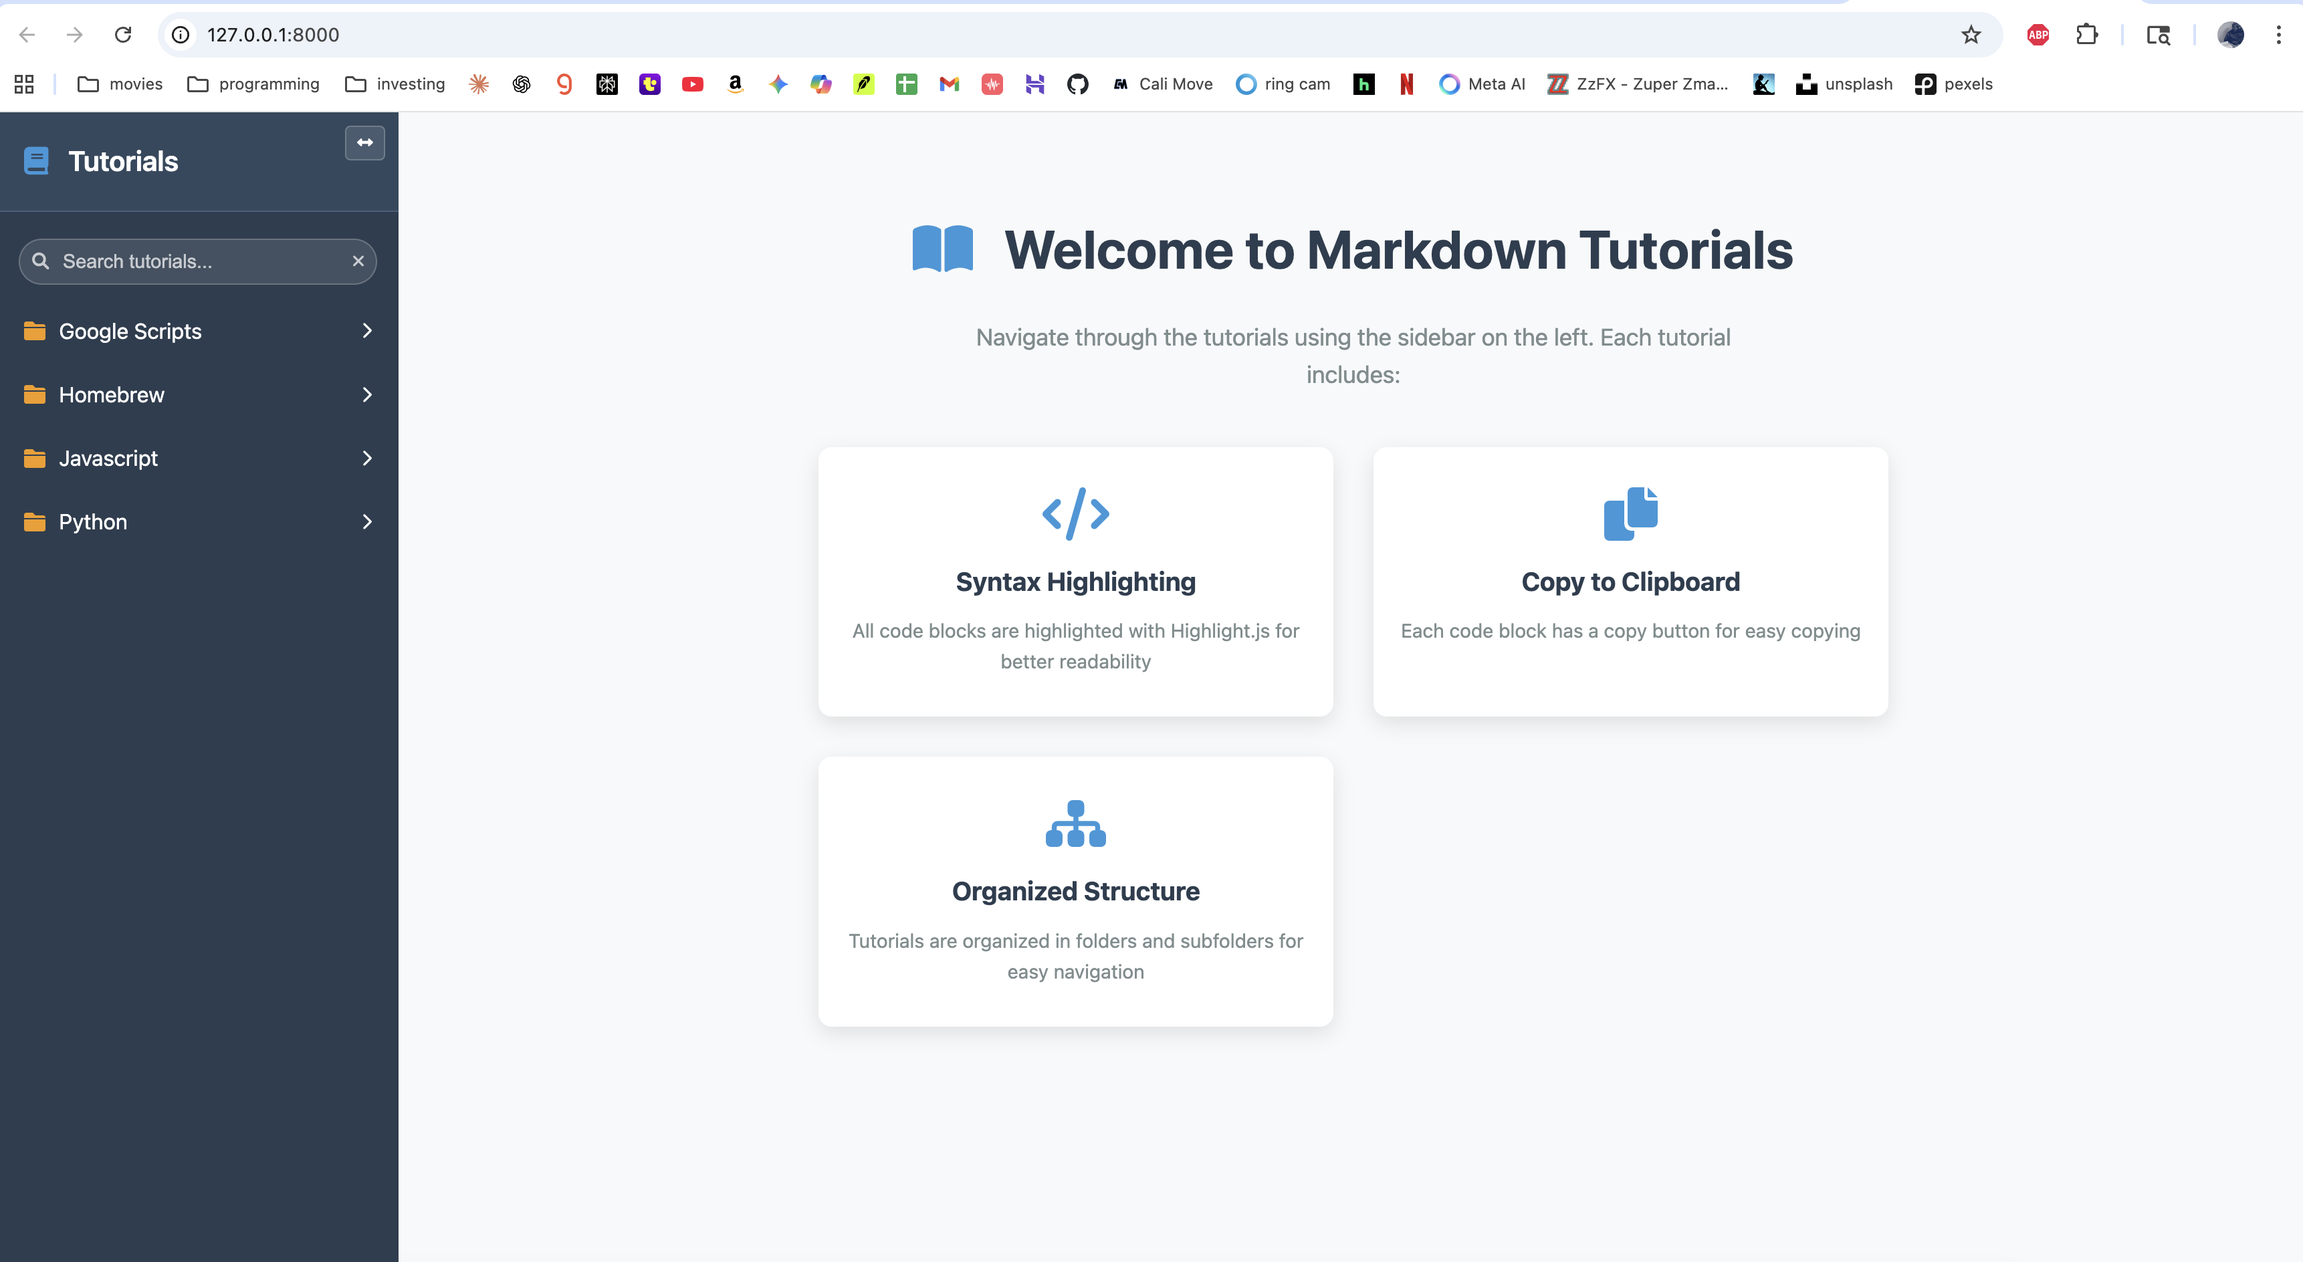
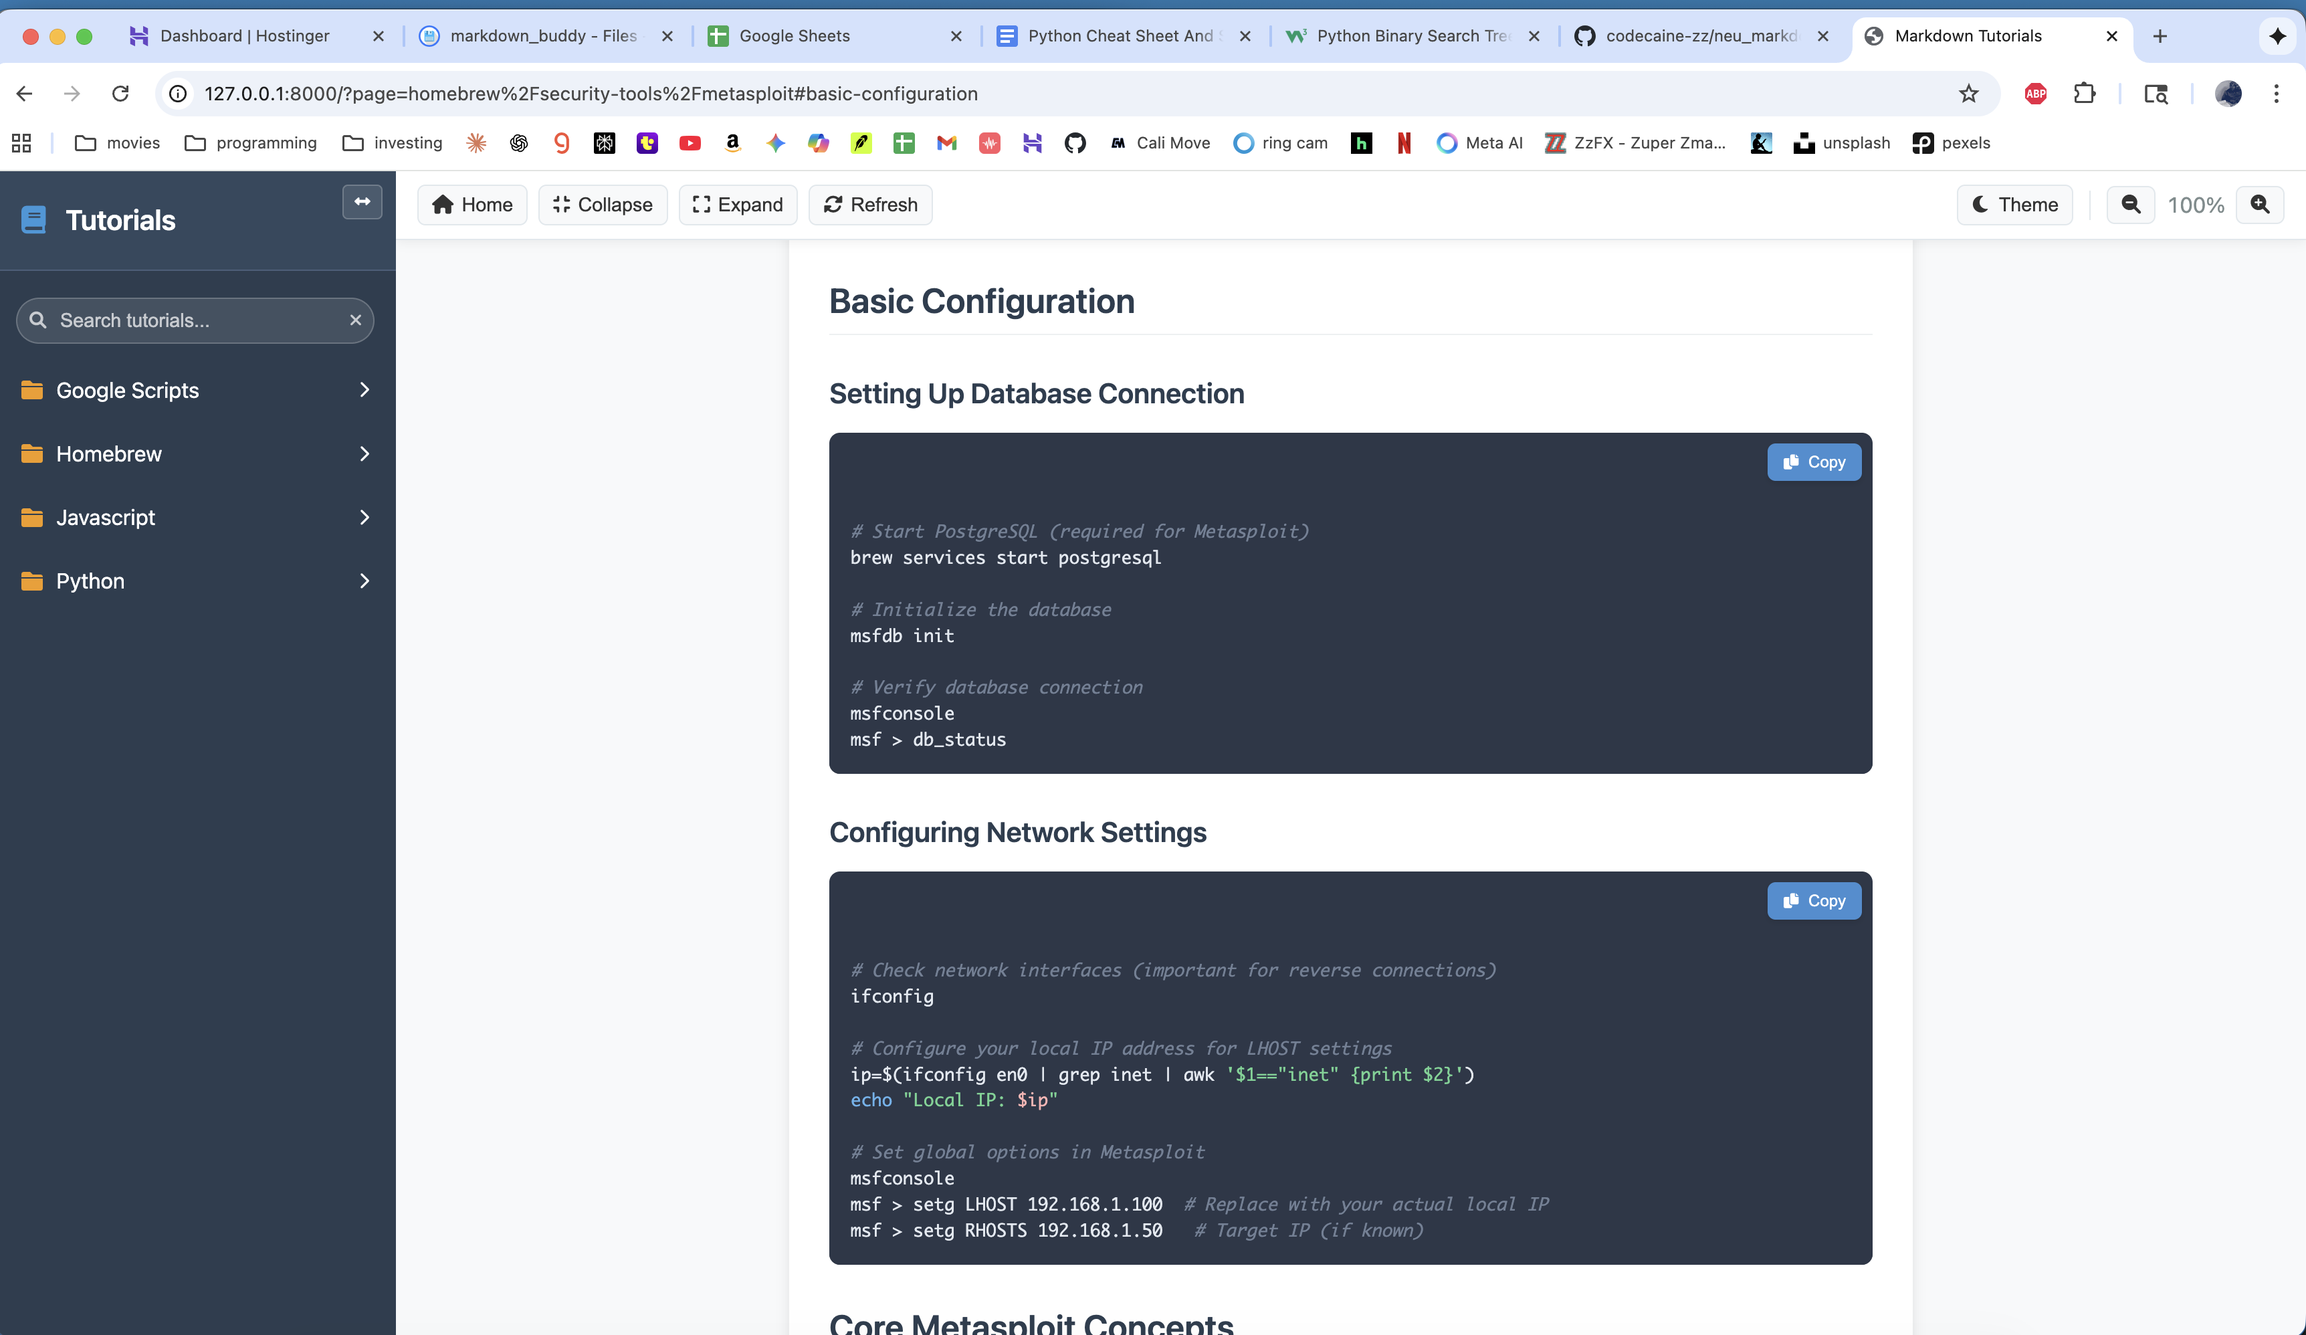
updated user interface and screenshoots

diff --git a/assets/js/app.js b/assets/js/app.js
@@ -495,12 +495,15 @@ document.addEventListener('DOMContentLoaded', function() {
                 sidebar.classList.remove('expanded');
                 sidebar.classList.add('collapsed');
                 sidebarToggle.querySelector('i').className = 'fas fa-arrows-alt-h';
+                saveUiState();
             } else if (sidebar.classList.contains('collapsed')) {
                 sidebar.classList.remove('collapsed');
                 sidebarToggle.querySelector('i').className = 'fas fa-arrows-alt-h';
+                saveUiState();
             } else {
                 sidebar.classList.add('expanded');
                 sidebarToggle.querySelector('i').className = 'fas fa-compress-alt';
+                saveUiState();
             }
         });
     }
@@ -563,4 +566,183 @@ document.addEventListener('DOMContentLoaded', function() {
         const isHidden = toc.style.display === 'none' || toc.style.display === '';
         toc.style.display = isHidden ? 'block' : 'none';
     }
+
+    // ===== Toolbar wiring =====
+    const busy = {
+        el: document.getElementById('busyOverlay'),
+        show() { this.el && this.el.classList.add('show'); },
+        hide() { this.el && this.el.classList.remove('show'); }
+    };
+
+    const TB = {
+        home: document.getElementById('tbHome'),
+        collapseAll: document.getElementById('tbCollapseAll'),
+        expandAll: document.getElementById('tbExpandAll'),
+        refresh: document.getElementById('tbRefresh'),
+        theme: document.getElementById('tbTheme'),
+        zoomOut: document.getElementById('tbZoomOut'),
+        zoomIn: document.getElementById('tbZoomIn'),
+        zoomIndicator: document.getElementById('tbZoomIndicator')
+    };
+
+    TB.home && TB.home.addEventListener('click', () => { window.location.href = '?page=home'; });
+
+    TB.collapseAll && TB.collapseAll.addEventListener('click', () => {
+        busy.show();
+        setTimeout(() => {
+            document.querySelectorAll('.nav-folder-content.open').forEach(f => { f.classList.remove('open'); f.style.maxHeight = '0px'; });
+            document.querySelectorAll('.nav-folder-header .folder-arrow.open').forEach(a => a.classList.remove('open'));
+            saveFolderStates();
+            busy.hide();
+        }, 150);
+    });
+
+    TB.expandAll && TB.expandAll.addEventListener('click', () => {
+        busy.show();
+        setTimeout(() => {
+            document.querySelectorAll('.nav-folder-content').forEach(f => { f.classList.add('open'); f.style.maxHeight = 'none'; });
+            document.querySelectorAll('.nav-folder-header .folder-arrow').forEach(a => a.classList.add('open'));
+            saveFolderStates();
+            busy.hide();
+        }, 150);
+    });
+
+    TB.refresh && TB.refresh.addEventListener('click', () => {
+        busy.show();
+        setTimeout(() => {
+            // Rebuild TOC and re-apply search filters; nav is server-rendered, so just reset states
+            initializeFolderStates();
+            initFolderToggles();
+            expandCurrentPath();
+            buildTableOfContents();
+            busy.hide();
+        }, 120);
+    });
+
+    // Theme toggle with persistence
+    const THEME_KEY = 'mt_theme';
+    function applyTheme(theme) {
+        const root = document.documentElement;
+        if (theme === 'dark') {
+            root.classList.add('theme-dark');
+            root.classList.remove('force-light');
+            TB.theme && (TB.theme.querySelector('i').className = 'fas fa-sun');
+        } else {
+            root.classList.remove('theme-dark');
+            root.classList.add('force-light');
+            TB.theme && (TB.theme.querySelector('i').className = 'fas fa-moon');
+        }
+        localStorage.setItem(THEME_KEY, theme);
+    }
+    function loadTheme() {
+        const saved = localStorage.getItem(THEME_KEY);
+        if (saved) applyTheme(saved);
+    }
+    TB.theme && TB.theme.addEventListener('click', () => {
+        const isDark = document.documentElement.classList.contains('theme-dark');
+        applyTheme(isDark ? 'light' : 'dark');
+    });
+    loadTheme();
+
+    // Zoom controls with persistence
+    const ZOOM_KEY = 'mt_zoom';
+    const zoomContainer = document.getElementById('contentZoom');
+    let zoom = 1.0;
+    function applyZoom() {
+        if (!zoomContainer) return;
+        zoomContainer.style.transform = `scale(${zoom})`;
+        TB.zoomIndicator && (TB.zoomIndicator.textContent = `${Math.round(zoom*100)}%`);
+        localStorage.setItem(ZOOM_KEY, String(zoom));
+    }
+    function loadZoom() {
+        const v = parseFloat(localStorage.getItem(ZOOM_KEY) || '1');
+        if (!Number.isNaN(v)) {
+            zoom = Math.min(1.8, Math.max(0.8, v));
+            applyZoom();
+        }
+    }
+    TB.zoomIn && TB.zoomIn.addEventListener('click', () => { zoom = Math.min(1.8, zoom + 0.1); applyZoom(); });
+    TB.zoomOut && TB.zoomOut.addEventListener('click', () => { zoom = Math.max(0.8, zoom - 0.1); applyZoom(); });
+    loadZoom();
+
+    // Persist sidebar and folder states
+    const UI_KEY = 'mt_ui_state';
+    function saveFolderStates() {
+        const states = [];
+        document.querySelectorAll('.nav-folder').forEach((folder, idx) => {
+            const content = folder.querySelector(':scope > .nav-folder-content');
+            if (content) states.push({ idx, open: content.classList.contains('open') });
+        });
+        const data = loadUiState();
+        data.folders = states;
+        localStorage.setItem(UI_KEY, JSON.stringify(data));
+    }
+    function restoreFolderStates() {
+        try {
+            const data = loadUiState();
+            if (!data.folders) return;
+            const folders = Array.from(document.querySelectorAll('.nav-folder'));
+            data.folders.forEach(s => {
+                const f = folders[s.idx];
+                if (!f) return;
+                const content = f.querySelector(':scope > .nav-folder-content');
+                const header = f.querySelector(':scope > .nav-folder-header .folder-arrow');
+                if (content) {
+                    if (s.open) {
+                        content.classList.add('open');
+                        content.style.maxHeight = 'none';
+                        header && header.classList.add('open');
+                    } else {
+                        content.classList.remove('open');
+                        content.style.maxHeight = '0px';
+                        header && header.classList.remove('open');
+                    }
+                }
+            });
+        } catch {}
+    }
+    function saveUiState() {
+        const sidebar = document.getElementById('sidebar');
+        const data = loadUiState();
+        data.sidebar = {
+            expanded: sidebar.classList.contains('expanded'),
+            collapsed: sidebar.classList.contains('collapsed')
+        };
+        localStorage.setItem(UI_KEY, JSON.stringify(data));
+        return data;
+    }
+    function loadUiState() {
+        try { return JSON.parse(localStorage.getItem(UI_KEY) || '{}'); } catch { return {}; }
+    }
+    function restoreUiState() {
+        const data = loadUiState();
+        const sidebar = document.getElementById('sidebar');
+        if (data.sidebar) {
+            sidebar.classList.toggle('expanded', !!data.sidebar.expanded);
+            sidebar.classList.toggle('collapsed', !!data.sidebar.collapsed);
+        }
+        restoreFolderStates();
+    }
+    restoreUiState();
+
+    // Keyboard shortcuts
+    document.addEventListener('keydown', (e) => {
+        const cmd = e.metaKey || e.ctrlKey;
+        if (e.key === 'F1') { e.preventDefault(); alert('Shortcuts:\n• Cmd/Ctrl+F: focus search\n• Cmd/Ctrl+B: toggle sidebar width\n• Cmd/Ctrl+H: home\n• +/-: zoom'); }
+        if (cmd && (e.key === 'f' || e.key === 'F')) {
+            e.preventDefault();
+            const inp = document.getElementById('navigationSearch');
+            inp && inp.focus();
+        }
+        if (cmd && (e.key === 'b' || e.key === 'B')) {
+            e.preventDefault();
+            sidebarToggle && sidebarToggle.click();
+        }
+        if (cmd && (e.key === 'h' || e.key === 'H')) {
+            e.preventDefault();
+            TB.home && TB.home.click();
+        }
+        if ((e.key === '+' || e.key === '=')) { e.preventDefault(); TB.zoomIn && TB.zoomIn.click(); }
+        if ((e.key === '-') ) { e.preventDefault(); TB.zoomOut && TB.zoomOut.click(); }
+    });
 });

diff --git a/assets/css/style.css b/assets/css/style.css
@@ -535,6 +535,57 @@ body {
     color: #95a5a6;
 }
 
+/* ===== Toolbar & Zoom (added) ===== */
+.toolbar {
+    position: sticky;
+    top: 0;
+    z-index: 50;
+    display: flex;
+    align-items: center;
+    justify-content: space-between;
+    gap: 10px;
+    padding: 10px 16px;
+    background: #ffffff;
+    border-bottom: 1px solid #e1e8ed;
+    box-shadow: 0 2px 8px rgba(0,0,0,0.06);
+}
+.toolbar-left, .toolbar-right { display: flex; align-items: center; gap: 8px; }
+.tb-btn {
+    display: inline-flex; align-items: center; gap: 6px;
+    background: #f8f9fa; color: #333;
+    border: 1px solid #e1e8ed;
+    padding: 6px 10px; border-radius: 6px; cursor: pointer; font-size: 0.9rem;
+    transition: background 0.2s, color 0.2s, border-color 0.2s, transform 0.05s;
+}
+.tb-btn:hover { background: #e9ecef; border-color: #3498db; color: #3498db; }
+.tb-btn:active { transform: translateY(1px); }
+.tb-btn i { color: inherit; }
+.tb-sep { width: 1px; height: 22px; background: #e1e8ed; margin: 0 4px; }
+.tb-indicator { min-width: 44px; text-align: center; color: #7f8c8d; font-variant-numeric: tabular-nums; }
+.zoom-container { transform-origin: top left; }
+
+/* Busy overlay */
+.busy-overlay { position: fixed; inset: 0; background: rgba(0,0,0,0.15); display: none; align-items: center; justify-content: center; z-index: 9999; }
+.busy-overlay.show { display: flex; }
+.busy-overlay .spinner { background: #ffffff; border: 1px solid #e1e8ed; padding: 10px 14px; border-radius: 8px; box-shadow: 0 2px 8px rgba(0,0,0,0.1); color: #3498db; }
+
+/* ===== Dark theme overrides (added) ===== */
+.theme-dark, .theme-dark body { background: #0f172a; color: #e2e8f0; }
+.theme-dark .toolbar { background: #0b1220; border-color: #1f2937; box-shadow: 0 2px 8px rgba(0,0,0,0.5); }
+.theme-dark .tb-btn { background: #0f172a; color: #e2e8f0; border-color: #1f2937; }
+.theme-dark .tb-btn:hover { background: #111827; color: #60a5fa; border-color: #374151; }
+.theme-dark .tb-indicator { color: #94a3b8; }
+.theme-dark .markdown-content, .theme-dark .breadcrumb, .theme-dark .feature, .theme-dark .folder-listing { background: #0b1220; box-shadow: 0 2px 8px rgba(0,0,0,0.5); }
+.theme-dark .breadcrumb { border-left-color: #60a5fa; }
+.theme-dark .breadcrumb-path a, .theme-dark .breadcrumb-link { color: #60a5fa; }
+.theme-dark .toc-link { color: #cbd5e1; }
+.theme-dark .toc-link:hover { background: #111827; color: #e2e8f0; }
+.theme-dark .folder-card, .theme-dark .file-card { background: #0f172a; border-color: #1f2937; }
+.theme-dark .folder-card:hover, .theme-dark .file-card:hover { box-shadow: 0 4px 15px rgba(0,0,0,0.5); }
+.theme-dark .folder-header { background: linear-gradient(135deg, #1e293b, #0b1220); }
+.theme-dark .table-of-contents { background: #0f172a; border-color: #1f2937; }
+.theme-dark .busy-overlay .spinner { background: #0b1220; border-color: #1f2937; color: #60a5fa; }
+
 /* Frontmatter */
 .frontmatter {
     margin-bottom: 30px;

diff --git a/index.php b/index.php
@@ -78,10 +78,37 @@ class MarkdownTutorialApp {
                 
                 <!-- Main Content -->
                 <main class="main-content">
-                    <?php echo $this->renderContent($page); ?>
+                    <!-- Top Toolbar -->
+                    <header class="toolbar" role="toolbar" aria-label="Application toolbar">
+                        <div class="toolbar-left">
+                            <button id="tbHome" class="tb-btn" title="Home"><i class="fas fa-home"></i><span>Home</span></button>
+                            <button id="tbCollapseAll" class="tb-btn" title="Collapse all"><i class="fas fa-compress"></i><span>Collapse</span></button>
+                            <button id="tbExpandAll" class="tb-btn" title="Expand all"><i class="fas fa-expand"></i><span>Expand</span></button>
+                            <button id="tbRefresh" class="tb-btn" title="Refresh navigation"><i class="fas fa-rotate"></i><span>Refresh</span></button>
+                        </div>
+                        <div class="toolbar-right">
+                            <button id="tbTheme" class="tb-btn" title="Toggle theme"><i class="fas fa-moon"></i><span>Theme</span></button>
+                            <div class="tb-sep" aria-hidden="true"></div>
+                            <button id="tbZoomOut" class="tb-btn" title="Zoom out"><i class="fas fa-search-minus"></i></button>
+                            <span id="tbZoomIndicator" class="tb-indicator" aria-live="polite">100%</span>
+                            <button id="tbZoomIn" class="tb-btn" title="Zoom in"><i class="fas fa-search-plus"></i></button>
+                        </div>
+                    </header>
+
+                    <!-- Zoom container wraps the dynamic content -->
+                    <div id="contentZoom" class="zoom-container">
+                        <?php echo $this->renderContent($page); ?>
+                    </div>
                 </main>
             </div>
             
+            <!-- Busy spinner overlay -->
+            <div id="busyOverlay" class="busy-overlay" aria-hidden="true">
+                <div class="spinner" role="status" aria-label="Loading">
+                    <i class="fas fa-circle-notch fa-spin"></i>
+                </div>
+            </div>
+
             <script src="assets/js/app.js"></script>
         </body>
         </html>

diff --git a/README.md b/README.md
@@ -13,6 +13,10 @@ A modern web application for browsing and viewing markdown-based tutorials with 
 - 🧩 **Toggleable Table of Contents** - Auto-generated ToC per tutorial with smooth anchor navigation
 - 🧱 **Sidebar Width Toggle** - Expand/collapse the sidebar for focus or overview
 - 🎯 **Smooth Scrolling** - In-page anchor navigation with smooth scrolling and target highlight
+- 🧰 **Top Toolbar** - Home, Collapse/Expand All, Refresh, Theme, and Zoom controls
+- 🌗 **Theme Toggle** - Light/Dark theme with instant switch and saved preference
+- 🔎 **Zoom Controls** - 80–180% zoom with live indicator and persistence
+- 💾 **Persistent UI State** - Remembers theme, zoom level, sidebar width, and folder open/closed states
 
 ## Screenshots
 
@@ -209,6 +213,33 @@ markdown_tutorials/
 
 - **Improved Code Copy UX**
    - Always-visible copy buttons on code blocks (mobile friendly), with success/failure feedback and clipboard fallback.
+
+- **Top Toolbar**
+   - Quick actions: Home, Collapse All, Expand All, Refresh.
+   - Theme toggle (sun/moon) and Zoom controls with a live percentage indicator.
+
+- **Theme & Zoom Persistence**
+   - Theme and zoom preferences are saved automatically and restored on page load.
+   - Zoom range: 80–180% for comfortable reading.
+
+- **Bulk Sidebar Actions & Busy Overlay**
+   - Collapse/Expand All folders with a brief, non-blocking spinner overlay.
+   - Keeps the UI responsive during batch updates.
+
+- **Persistent Navigation State**
+   - Remembers sidebar width state (normal/expanded/collapsed).
+   - Restores open/closed states of folders across visits.
+
+- **Keyboard Shortcuts**
+   - F1: Show shortcut help
+   - Cmd/Ctrl+F: Focus sidebar search
+   - Cmd/Ctrl+B: Toggle sidebar width
+   - Cmd/Ctrl+H: Home
+   - Plus/Minus: Zoom in/out
+
+### What’s New
+
+Latest UI improvements bring a top toolbar, dark/light theme toggle, zoom controls with a live indicator, batch expand/collapse for the sidebar, and persistence of user preferences (theme, zoom, sidebar state, and folder states). This aligns the PHP app’s UX closer to the neu_markdown_buddy experience while staying fully web-based.
 
 ### Syntax Highlighting
 
